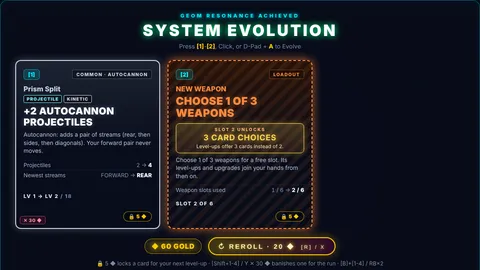
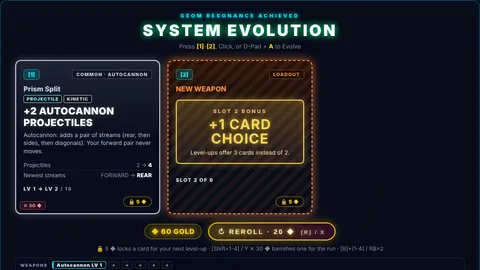
NEW WEAPON card: slot bonus front and centre, plus a one-time tip (#94)
- The NEW WEAPON card is now mostly its slot bonus: a big pulsing
  "SLOT N BONUS" block (+1 CARD CHOICE / +5% DAMAGE / FREE BREAKTHROUGH)
  with one short line. The summary, the "Weapon slots used" row and the
  "CHOOSE 1 OF 3 WEAPONS" headline are gone.
- The first NEW WEAPON card on a device opens a short tip over the hand
  (MORE WEAPONS, MORE POWER, every slot's bonus, GOT IT). It is stored in
  localStorage; while it is open, keys and pad buttons only close it.
- Capture and smoke tools mark the tip as seen, like the tutorial.

Claude-Session: https://claude.ai/code/session_01GbW1Djnz83nEUocq6RVCdz

diff --git a/css/style.css b/css/style.css
@@ -1792,6 +1792,55 @@ body.touch-mode .upgrade-slot-reward { margin: 0 0 8px; }
 body.touch-mode .upgrade-slot-reward .upg-slot-reward { min-width: 0; padding: 4px 8px; }
 body.touch-mode .upgrade-slot-reward .upg-slot-reward b { font-size: 13px; }
 
+/* On the NEW WEAPON card the slot bonus is the message: big, centred, gently pulsing. */
+.upgrade-option.new-weapon-card .upg-slot-reward {
+  margin: 14px 0 8px;
+  padding: 16px 10px 14px;
+  gap: 6px;
+  border-width: 2px;
+  animation: slot-reward-pulse 1.2s ease-in-out infinite alternate;
+}
+.upgrade-option.new-weapon-card .upg-slot-reward-label { font-size: 11px; letter-spacing: 3px; }
+.upgrade-option.new-weapon-card .upg-slot-reward b { font-size: 30px; line-height: 1.05; letter-spacing: 1.5px; }
+.upgrade-option.new-weapon-card .upg-slot-reward-text { font-size: 12.5px; }
+@keyframes slot-reward-pulse {
+  from { box-shadow: 0 0 10px rgba(255, 216, 77, 0.25), inset 0 0 10px rgba(255, 216, 77, 0.1); }
+  to { box-shadow: 0 0 26px rgba(255, 216, 77, 0.55), inset 0 0 16px rgba(255, 216, 77, 0.2); }
+}
+@media (prefers-reduced-motion: reduce) { .upgrade-option.new-weapon-card .upg-slot-reward { animation: none; } }
+
+/* One-time tip on slot bonuses, over the level-up hand the first time a NEW WEAPON card shows up. */
+.slot-tip {
+  position: absolute;
+  inset: 0;
+  z-index: 5;
+  display: flex;
+  align-items: center;
+  justify-content: center;
+  padding: 16px;
+  background: rgba(2, 4, 12, 0.78);
+  backdrop-filter: blur(3px);
+}
+.slot-tip-card {
+  width: min(520px, 100%);
+  padding: 22px 22px 18px;
+  border-radius: 14px;
+  border: 2px solid #ffd84d;
+  background: linear-gradient(180deg, rgba(44, 28, 8, 0.97), rgba(10, 12, 26, 0.98));
+  box-shadow: 0 0 40px rgba(255, 216, 77, 0.35);
+  text-align: center;
+}
+.slot-tip-kicker { font-size: 11px; font-weight: 800; letter-spacing: 3px; color: #ffb37a; }
+.slot-tip-title { margin: 6px 0 8px; font-size: 26px; letter-spacing: 2px; color: #ffd84d; text-shadow: 0 0 14px rgba(255, 216, 77, 0.6); }
+.slot-tip-line { margin: 0 0 14px; font-size: 14px; color: #ffe9b0; line-height: 1.4; }
+.slot-tip-rewards { display: flex; flex-direction: column; gap: 5px; max-width: 340px; margin: 0 auto 16px; }
+.slot-tip-reward { display: flex; align-items: center; justify-content: space-between; gap: 12px; padding: 6px 12px; border-radius: 8px; border: 1px solid rgba(255, 216, 77, 0.55); background: rgba(255, 216, 77, 0.08); }
+.slot-tip-reward span { font-size: 10.5px; font-weight: 800; letter-spacing: 1.5px; color: #ffb37a; }
+.slot-tip-reward b { font-size: 14px; color: #ffd84d; letter-spacing: 0.5px; }
+.slot-tip-reward.reward-breakthrough { border-color: #38f2d0; background: rgba(56, 242, 208, 0.08); }
+.slot-tip-reward.reward-breakthrough b { color: #7dffe6; }
+.slot-tip-ok { margin: 0 auto; min-width: 160px; }
+
 /* The NEW WEAPON pick (1 of 3 weapons): the whole window turns armory orange, and each card leads with
    the weapon's name in its tier colour instead of a white "+N" stat headline. */
 #upgrade-modal.phase-weapon .modal-card {
@@ -4150,9 +4199,13 @@ body.touch-mode .upgrade-option:not(.card-detail-card) .upg-headline { font-size
 body.touch-mode .upgrade-option:not(.card-detail-card) .upg-level { font-size: 10px; margin-top: 6px; padding-top: 5px; }
 body.touch-mode .upgrade-option:not(.card-detail-card) .upg-jump-ribbon { font-size: 9px; padding: 2px 8px; }
 /* The slot reward stays on compact cards (it is why to take NEW WEAPON), minus its long line. */
-body.touch-mode .upgrade-option:not(.card-detail-card) .upg-slot-reward { margin: 6px 0 2px; padding: 4px 6px; }
-body.touch-mode .upgrade-option:not(.card-detail-card) .upg-slot-reward b { font-size: 13px; }
-body.touch-mode .upgrade-option:not(.card-detail-card) .upg-slot-reward-text { display: none; }
+body.touch-mode .upgrade-option:not(.card-detail-card) .upg-slot-reward { margin: 6px 0 2px; padding: 8px 6px; gap: 3px; }
+body.touch-mode .upgrade-option:not(.card-detail-card) .upg-slot-reward b { font-size: 18px; }
+body.touch-mode .upgrade-option:not(.card-detail-card) .upg-slot-reward-label { font-size: 8.5px; letter-spacing: 1.5px; }
+body.touch-mode .upgrade-option:not(.card-detail-card) .upg-slot-reward-text { font-size: 10px; }
+body.touch-mode .slot-tip-card { padding: 16px 14px 14px; }
+body.touch-mode .slot-tip-title { font-size: 20px; }
+body.touch-mode .slot-tip-line { font-size: 12.5px; margin-bottom: 10px; }
 body.touch-mode .card-lock-toggle,
 body.touch-mode .card-banish-toggle { font-size: 10px; padding: 3px 8px; margin-top: 6px; }
 body.touch-mode .card-more-btn {

diff --git a/js/main.js b/js/main.js
@@ -35,9 +35,9 @@ import {
 } from './status-effects.js';
 import {
   describeUpgrade, describeNewWeapon, describeWeaponPick, describeBreakthrough, renderUpgradeCard, COMPACT_MAX_ROWS, bonusLevels, bonusText,
-  slotRewardHtml
+  slotRewardHtml, slotTipHtml
 } from './upgrade-cards.js';
-import { handSizeFor, slotReward } from './slot-rewards.js';
+import { handSizeFor, slotReward, slotTip, readSlotTipSeen, writeSlotTipSeen } from './slot-rewards.js';
 import { META_UPGRADES, ARMORY_CATEGORIES, ProgressionManager, formatArmoryValue } from './progression.js';
 import { GOLD_ICON, goldPerVein, goldCoins, rerollCost, weaponRerollCost, lockCost, banishCost, trySpend, refreshLockedCard, rollHandAround } from './gold.js';
 import { GlobalLeaderboard, buildBoardView, renderBoardView, renderVersionOptions, renderModeOptions, syncTabButtons, describeSubmit, normalizeTab } from './leaderboard.js';
@@ -3855,6 +3855,36 @@ export class Game {
   renderHand() {
     this.renderChoiceCards(this.currentChoices.map((upg) => (upg.isNewWeapon ? describeNewWeapon(this.player) : describeUpgrade(this.player, upg))));
     this.renderHandControls();
+    if (this.currentChoices.some((c) => c.isNewWeapon)) this.maybeOpenSlotTip();
+  }
+
+  // The first NEW WEAPON card on a device opens a short tip on slot bonuses over the hand (once: the flag
+  // is stored, js/slot-rewards.js). While it is open, keys and pad buttons only close it.
+  maybeOpenSlotTip() {
+    this.slotTipSeen ??= readSlotTipSeen();
+    if (this.slotTipSeen || this.slotTipOpen) return;
+    const doc = globalThis.document;
+    const modal = doc?.getElementById?.('upgrade-modal');
+    if (!modal || !doc.createElement) return;
+    this.slotTipSeen = true;
+    writeSlotTipSeen();
+    this.slotTipOpen = true;
+    const wrap = doc.createElement('div');
+    wrap.id = 'slot-tip';
+    wrap.className = 'slot-tip';
+    wrap.innerHTML = slotTipHtml(slotTip(weaponSlots()));
+    wrap.querySelector?.('[data-slot-tip-ok]')?.addEventListener('click', () => this.closeSlotTip());
+    modal.appendChild(wrap);
+    this.menuGrace = Math.max(this.menuGrace || 0, CHOICE_CLICK_GUARD_MS / 1000);
+  }
+
+  closeSlotTip() {
+    if (!this.slotTipOpen) return;
+    this.slotTipOpen = false;
+    globalThis.document?.getElementById?.('slot-tip')?.remove?.();
+    // A held key or button that closed the tip must not also pick the card under the cursor.
+    this.menuGrace = Math.max(this.menuGrace || 0, CHOICE_CLICK_GUARD_MS / 1000);
+    this.sound?.playUiSelect?.();
   }
 
   addGold(amount) {
@@ -3894,6 +3924,10 @@ export class Game {
   // radar toggle only during play), [B] then [1]-[4] banishes that card ([B] again or [Esc] cancels).
   handleUpgradeKey(code, shift = false) {
     if (this.state !== 'UPGRADE') return false;
+    if (this.slotTipOpen) {
+      if (/^(?:Enter|Space|Escape|(?:Digit|Numpad)\d)$/.test(code)) this.closeSlotTip();
+      return true;
+    }
     const digit = /^(?:Digit|Numpad)([1-4])$/.exec(code);
     if (digit) {
       const idx = Number(digit[1]) - 1;
@@ -3922,6 +3956,10 @@ export class Game {
   // the focused card. Neither button does anything else in this modal.
   handleUpgradePad(gp) {
     if (this.state !== 'UPGRADE' || !gp) return false;
+    if (this.slotTipOpen) {
+      if ([PAD.A, PAD.B, PAD.X, PAD.Y, PAD.START].some((b) => gp.pressed(b))) this.closeSlotTip();
+      return true; // nothing under the tip can be picked while it is open
+    }
     if (gp.pressed(PAD.X)) return this.rerollHand();
     if (gp.pressed(PAD.Y)) {
       const idx = (this.choiceCardEls || []).indexOf(this.menuNav?.focused);
@@ -4311,6 +4349,7 @@ export class Game {
     this.handPhase = null;
     this.handLock = null;
     this.closeCardDetail();
+    this.closeSlotTip();
     document.getElementById('upgrade-modal').classList.add('hidden');
     document.getElementById('upgrade-modal').classList.remove?.('phase-weapon');
     this.state = 'PLAYING';
@@ -4320,7 +4359,7 @@ export class Game {
   }
 
   selectUpgrade(index) {
-    if (this.state !== 'UPGRADE') return;
+    if (this.state !== 'UPGRADE' || this.slotTipOpen) return;
     const upg = this.currentChoices[index];
     if (!upg) return;
     const p = this.player;

diff --git a/tests/slot-rewards.test.js b/tests/slot-rewards.test.js
@@ -12,7 +12,7 @@ const { acquireWeapon, discardWeapon, pendingBreakthroughs, applyUpgradeLevels, 
 const { ownedWeapons, unownedWeapons, weaponLevel } = await import('../js/loadout.js');
 const { weaponDamage } = await import('../js/weapon-scaling.js');
 const { describeNewWeapon, renderUpgradeCard } = await import('../js/upgrade-cards.js');
-const { handSizeFor, loadoutDamageMult, loadoutDamageMultFor, slotReward } = await import('../js/slot-rewards.js');
+const { handSizeFor, loadoutDamageMult, loadoutDamageMultFor, slotReward, slotTip, SLOT_TIP_SEEN_KEY, readSlotTipSeen } = await import('../js/slot-rewards.js');
 const { weaponRerollCost } = await import('../js/gold.js');
 
 const odds = (chance, pity = 99) => ({
@@ -111,22 +111,68 @@ test('slot 6: that weapon starts with its LV 6 Breakthrough, once per run, in pl
   assert.deepEqual(pendingBreakthroughs(p, next), []);
 });
 
-test('NEW WEAPON card: a banner says what the slot unlocks', () => {
+test('NEW WEAPON card: the slot bonus is the message, with no summary or stat rows', () => {
   const g = freshGame();
   const p = g.player;
-  const expect = { 2: '3 CARD CHOICES', 3: '+5% DAMAGE', 4: '4 CARD CHOICES', 5: '+5% DAMAGE', 6: 'FREE BREAKTHROUGH' };
+  const expect = { 2: '+1 CARD CHOICE', 3: '+5% DAMAGE', 4: '+1 CARD CHOICE', 5: '+5% DAMAGE', 6: 'FREE BREAKTHROUGH' };
   for (const [slot, short] of Object.entries(expect)) {
     const d = describeNewWeapon(p);
     assert.equal(d.reward.slot, Number(slot));
     assert.equal(d.reward.short, short);
+    assert.deepEqual(d.rows, []);
     const html = renderUpgradeCard(d, '[1]').html;
-    assert.match(html, new RegExp(`SLOT ${slot} UNLOCKS`));
+    assert.match(html, new RegExp(`SLOT ${slot} BONUS`));
     assert.ok(html.includes(short));
+    assert.ok(!html.includes('upg-summary') && !html.includes('upg-stats') && !html.includes('upg-headline'), 'no extra text');
     acquireWeapon(p, unownedWeapons(p)[0]);
   }
+  assert.match(slotReward(2).text, /3 cards instead of 2/);
   assert.match(slotReward(5).text, /\+10% total/);
   assert.equal(slotReward(1), null);
   assert.equal(slotReward(7), null);
+});
+
+test('slot tip: opens once over the first hand with a NEW WEAPON card, and only GOT IT / a key / a button closes it', () => {
+  const tip = slotTip(6);
+  assert.deepEqual(tip.rewards.map((r) => r.slot), [2, 3, 4, 5, 6]);
+  const store = new Map();
+  const saved = globalThis.localStorage;
+  globalThis.localStorage = { getItem: (k) => store.get(k) ?? null, setItem: (k, v) => store.set(k, v) };
+  try {
+    const g = freshGame();
+    g.slotTipSeen = undefined; // a device that has never seen it
+    withTuning(odds(0), () => g.triggerLevelUp());
+    assert.ok(!g.slotTipOpen, 'no NEW WEAPON card: no tip');
+    g.selectUpgrade(0);
+    withTuning(odds(1), () => g.triggerLevelUp());
+    assert.equal(g.slotTipOpen, true);
+    assert.equal(store.get(SLOT_TIP_SEEN_KEY), '1');
+    assert.ok(readSlotTipSeen());
+    // Picks, digits and pad buttons don't go through to the cards while it is open.
+    const choices = g.currentChoices;
+    g.selectUpgrade(0);
+    assert.equal(g.currentChoices, choices);
+    assert.equal(g.handleUpgradeKey('Digit1'), true);
+    assert.equal(g.slotTipOpen, false, 'a digit closes it');
+    assert.equal(g.state, 'UPGRADE', '...without picking a card');
+    // Never again, on this game or a new one on the same device.
+    g.slotTipSeen = true;
+    const g2 = freshGame();
+    g2.slotTipSeen = undefined;
+    withTuning(odds(1), () => g2.triggerLevelUp());
+    assert.ok(!g2.slotTipOpen);
+    // Controller: A closes it without picking.
+    store.clear();
+    const g3 = freshGame();
+    g3.slotTipSeen = undefined;
+    withTuning(odds(1), () => g3.triggerLevelUp());
+    assert.equal(g3.slotTipOpen, true);
+    assert.equal(g3.handleUpgradePad({ pressed: (b) => b === PAD.A, buttons: [] }), true);
+    assert.equal(g3.slotTipOpen, false);
+    assert.equal(g3.state, 'UPGRADE');
+  } finally {
+    globalThis.localStorage = saved;
+  }
 });
 
 test('weapon pick reroll: 40 then 80 gold, fresh weapons first, off when nothing new is left', () => {

diff --git a/js/upgrade-cards.js b/js/upgrade-cards.js
@@ -318,26 +318,36 @@ export function describeNewWeapon(player) {
     name: 'NEW WEAPON',
     category: 'LOADOUT',
     tags: [],
-    summary: 'Choose 1 of 3 weapons for a free slot. Its level-ups and upgrades join your hands from then on.',
+    // The slot's bonus is the whole message: no headline, summary or stat rows next to it.
+    summary: reward ? '' : 'Choose 1 of 3 weapons for a free slot.',
     isSynergy: false,
     isNewWeapon: true,
     rarity: 'weapon',
     rarityLabel: 'LOADOUT',
     color: RARITY.weapon.color,
     jump: 1,
-    headline: 'CHOOSE 1 OF 3 WEAPONS',
-    rows: [{ id: 'slots', label: 'Weapon slots used', before: `${used} / ${slots}`, after: `${used + 1} / ${slots}` }],
+    headline: reward ? '' : 'CHOOSE 1 OF 3 WEAPONS',
+    rows: [],
     hiddenRows: 0,
     levelHtml: `SLOT ${used + 1} OF ${slots}`,
-    // What filling this slot unlocks (slot-rewards.js), shown as a banner on the card.
+    // What filling this slot unlocks (slot-rewards.js), shown big on the card.
     reward: reward && { ...reward, slot: used + 1 }
   };
 }
 
 // Banner for a slot reward ({ slot, short, text, kind }): the NEW WEAPON card and the weapon pick header.
 export const slotRewardHtml = (r) => (r
-  ? `<div class="upg-slot-reward reward-${r.kind}"><span class="upg-slot-reward-label">SLOT ${r.slot} UNLOCKS</span><b>${r.short}</b><span class="upg-slot-reward-text">${r.text}</span></div>`
+  ? `<div class="upg-slot-reward reward-${r.kind}"><span class="upg-slot-reward-label">SLOT ${r.slot} BONUS</span><b>${r.short}</b><span class="upg-slot-reward-text">${r.text}</span></div>`
   : '');
+
+// The one-time slot rewards tip (slot-rewards.js slotTip): title, one line, a chip per slot bonus, GOT IT.
+export const slotTipHtml = (tip) => `<div class="slot-tip-card" role="dialog" aria-labelledby="slot-tip-title">
+    <div class="slot-tip-kicker">⬡ NEW: SLOT BONUSES</div>
+    <h3 id="slot-tip-title" class="slot-tip-title">${tip.title}</h3>
+    <p class="slot-tip-line">${tip.line}</p>
+    <div class="slot-tip-rewards">${tip.rewards.map((r) => `<div class="slot-tip-reward reward-${r.kind}"><span>WEAPON ${r.slot}</span><b>${r.short}</b></div>`).join('')}</div>
+    <button type="button" class="neon-btn primary-btn slot-tip-ok" data-slot-tip-ok>GOT IT</button>
+  </div>`;
 
 // A weapon offered after NEW WEAPON: its summary, tags and exact LV 1 stats (installed on a copy).
 export function describeWeaponPick(player, weaponId, maxRows = MAX_ROWS) {
@@ -462,10 +472,10 @@ export function renderUpgradeCard(d, keyLabel, installed = false) {
           <span class="upg-badge">${d.rarityLabel === d.category ? d.category : `${d.rarityLabel} · ${d.category}`}</span>
         </div>
         <div class="upg-name">${d.name}</div>${tags}
-        <div class="upg-headline">${d.headline}</div>${slotRewardHtml(d.reward)}
-        <div class="upg-summary">${d.summary}</div>
-        <div class="upg-stats">${rows}${more}
-        </div>
+        ${d.headline ? `<div class="upg-headline">${d.headline}</div>` : ''}${slotRewardHtml(d.reward)}
+        ${d.summary ? `<div class="upg-summary">${d.summary}</div>` : ''}
+        ${rows || more ? `<div class="upg-stats">${rows}${more}
+        </div>` : ''}
       </div>
       <div class="upg-level">${levelText(d, installed)}</div>
     `

diff --git a/js/slot-rewards.js b/js/slot-rewards.js
@@ -27,20 +27,42 @@ export const loadoutDamageMult = (p) => loadoutDamageMultFor(Array.isArray(p?.lo
 
 const pct = (x) => `+${Math.round(x * 100)}%`;
 
-// What equipping weapon number `slot` unlocks, or null for slots with no reward. `short` fits the
-// NEW WEAPON card's banner; `text` is the longer line under it and on the weapon pick screen.
+// What equipping weapon number `slot` unlocks, or null for slots with no reward. `short` is the big line
+// on the NEW WEAPON card; `text` the one short line under it (and on the weapon pick screen).
 export function slotReward(slot) {
   const hand = handSizeFor(slot);
   if (slot > 1 && hand > handSizeFor(slot - 1)) {
-    return { kind: 'hand', short: `${hand} CARD CHOICES`, text: `Level-ups offer ${hand} cards instead of ${handSizeFor(slot - 1)}.` };
+    const more = hand - handSizeFor(slot - 1);
+    return { kind: 'hand', short: `+${more} CARD CHOICE${more > 1 ? 'S' : ''}`, text: `Level-ups offer ${hand} cards instead of ${handSizeFor(slot - 1)}.` };
   }
   const k = DAMAGE_SLOTS.indexOf(slot);
   if (k >= 0) {
     const each = slotDamageBonus();
-    return { kind: 'damage', short: `${pct(each)} DAMAGE`, text: `Every weapon deals ${pct(each)} damage${k > 0 ? ` (${pct(each * (k + 1))} total)` : ''}.` };
+    return { kind: 'damage', short: `${pct(each)} DAMAGE`, text: `To every weapon${k > 0 ? ` (${pct(each * (k + 1))} total)` : ''}.` };
   }
   if (slot === BREAKTHROUGH_SLOT) {
-    return { kind: 'breakthrough', short: 'FREE BREAKTHROUGH', text: 'This weapon starts with its LV 6 Breakthrough.' };
+    return { kind: 'breakthrough', short: 'FREE BREAKTHROUGH', text: 'The new weapon starts with its LV 6 Breakthrough.' };
   }
   return null;
+}
+
+// The one-time tip shown the first time a NEW WEAPON card turns up (main.js openSlotTip): one line and
+// the bonus of every slot that has one.
+export const SLOT_TIP_SEEN_KEY = 'vexolith_slot_tip_seen';
+export function slotTip(slots = 6) {
+  const rewards = [];
+  for (let s = 2; s <= slots; s++) {
+    const r = slotReward(s);
+    if (r) rewards.push({ slot: s, ...r });
+  }
+  return { title: 'MORE WEAPONS, MORE POWER', line: 'Every NEW WEAPON you take unlocks a bonus. The card shows the next one.', rewards };
+}
+
+// Storage may be blocked (reading localStorage itself can throw): the tip then shows once per page load.
+export function readSlotTipSeen(storage) {
+  try { return !!(storage ?? globalThis.localStorage)?.getItem(SLOT_TIP_SEEN_KEY); } catch { return false; }
+}
+
+export function writeSlotTipSeen(storage) {
+  try { (storage ?? globalThis.localStorage)?.setItem(SLOT_TIP_SEEN_KEY, '1'); } catch { /* blocked */ }
 }

diff --git a/tests/loadout.test.js b/tests/loadout.test.js
@@ -211,8 +211,7 @@ test('weapon pick cards preview exact LV 1 stats, tags and summary without touch
     assert.match(html.html, /EQUIP/);
   }
   const nw = describeNewWeapon(freshGame().player);
-  assert.equal(nw.rows[0].before, '1 / 6');
-  assert.equal(nw.rows[0].after, '2 / 6');
+  assert.match(nw.levelHtml, /SLOT 2 OF 6/, 'the slot it fills (the slot bonus is the rest of the card)');
   assert.match(renderUpgradeCard(nw, '[2]').className, /new-weapon-card/);
   assert.equal(rollWeaponPicks(freshGame().player, 3).length, 3);
 });

diff --git a/README.md b/README.md
@@ -67,7 +67,7 @@ Versions 0.1.0–0.8.1 were assigned after the fact from the merge history: 0.1.
    - **Plasma Grenades** (`js/grenades.js`, numbers in `js/weapon-scaling.js`): an AUTONOMOUS slot weapon (damage source `grenade`, tags `PROJECTILE EXPLOSIVE AREA`). Every throw interval (2.2 s at LV 1) the ship lobs 2 grenades at the nearest enemies within throw range (330 px), leading their motion, or in a fan along the aim when none is in range. Each one arcs for 0.5 s with a small bounce, sits armed for a 0.75 s fuse (blinking light, a ring at the blast radius filling as the fuse burns), then bursts (95 px). Stat cards: Damage, Bandolier (+1 grenade per throw, up to +5), Throw Rate (+40%/rank, up to 8), Blast Size and Throw Range (utility). The grenade's **element** is the one its element card locked in (FIRE, FROST, CORROSIVE or SHOCK; none → PLASMA) and sets its hue; every grenade hit (blast, bomblets, cloud) applies that element's status (`applyOnHitStatuses`). Breakthroughs: **Cluster Grenades** (LV 6: 5 bomblets at 10% scatter on landing and pop 0.45 s later), **Lingering Cloud** (LV 12: a cloud worth 30% of the blast ticks for 2.5 s in the grenade's element, drawn per element: flames, frost hexagon, toxic bubbles, crackling arcs or a plasma haze), **Gravity Grenade** (LV 18: a 1.1 s fuse that drags enemies within 1.8× the blast radius toward the grenade, then a ×1.22 harder blast). **SYNERGY: EMP Grenades** (Plasma Grenades + Tesla Arc): every grenade blast arcs lightning into the 3 nearest enemies for 35% of the blast each (run-stats sub-source `emp`). Grenades live in a fixed 64-slot pool and freeze with pause/hit-stop/slow-mo.
    - **Corrosive Gas Trail** (`js/gas-trail.js`, numbers in `js/weapon-scaling.js`, v0.36): an AUTONOMOUS slot weapon (damage source `gas`, tags `AREA CORRODE`). The ship vents puffs of gas from its tail: a new puff every 0.7 cloud radii of travel, while a hovering ship keeps topping up its last puff (one cloud when parked). Clouds (46 px at LV 1, AREA-scaled) swell in over 0.35 s, linger 2.6 s and shrink away over the last 30%. Every gas tick (0.3 s at LV 1) each enemy inside **any** cloud takes one tick (overlaps never stack) and a CORRODE stack. Its element is **fixed** (`FIXED_ELEMENTS` in `js/weapon-levels.js`): no element cards, corrode rank 1 at LV 1 and +1 at LV 6 / 12 / 18 (`fixedElementRank`); it counts as a CORROSIVE weapon for the STATUS cards, the Corrosive Amplifier, Supercritical and the HUD element tag. A tick is valued at `gasHitShare` (3) in its potential, since a trail usually holds several enemies. Stat cards: Toxicity (damage), Reactivity (+40% tick rate/rank, up to 8), Plume Size and Linger (utility). Breakthroughs: **Seeking Miasma** (LV 6: clouds creep toward the nearest enemy within 280 px at 70 px/s; ticks ×1.22), **Volatile Pockets** (LV 12: every 1.2 s a pocket at the tail swells, arms after 0.35 s and bursts when an enemy comes within 60% of its 1.9× cloud-radius blast, or at 1.8 s, spilling a fresh cloud; run-stats sub-source `gas_pocket`), **Toxic Shroud** (LV 18: a cloud of 2× the cloud radius wraps the hull, follows the ship and ticks with the trail for 50% of a tick; `gas_shroud`). Puffs (96) and pockets (8) live in fixed pools; the clouds draw as two union fills plus two batched strokes under the enemies, so a long trail never hides them or costs more draw calls.
    - **NEW WEAPON** card (cyan, dashed): while a slot is free it joins a hand with a chance that depends on how many weapons you carry (`newWeaponChanceBy1`…`By5`: 80 / 70 / 60 / 40 / 30% with 1–5 weapons) and is guaranteed once `newWeaponPityOne` (2) hands in a row went without one while you carry a single weapon, or `newWeaponPity` (4) with two or more. Picking it swaps the hand for **1 of 3 unequipped weapons**, each with its summary, tags and exact LV 1 stats (gold can reroll them). With all 6 slots full no NEW WEAPON cards appear. Supply caches never offer it.
-   - **Slot rewards** (`js/slot-rewards.js`), so riding one weapon to a high level is not the strong play: level-up hands hold **2 cards with 1 weapon, 3 with 2–3, 4 from 4** (a NEW WEAPON card takes one of them); the **3rd and 5th** weapons each add `slotDamageBonus` (+5%) damage to every weapon (`baseDamage` in `js/weapon-scaling.js`); the weapon that fills **slot 6** gets its LV 6 Breakthrough at once (its R&D pick opens right after the weapon pick and counts as its LV 6 one; once per run). Hand size and damage follow the weapons equipped now, so a discard takes them back. The NEW WEAPON card carries a banner with what the next slot unlocks, and the weapon pick repeats it under its title.
+   - **Slot rewards** (`js/slot-rewards.js`), so riding one weapon to a high level is not the strong play: level-up hands hold **2 cards with 1 weapon, 3 with 2–3, 4 from 4** (a NEW WEAPON card takes one of them); the **3rd and 5th** weapons each add `slotDamageBonus` (+5%) damage to every weapon (`baseDamage` in `js/weapon-scaling.js`); the weapon that fills **slot 6** gets its LV 6 Breakthrough at once (its R&D pick opens right after the weapon pick and counts as its LV 6 one; once per run). Hand size and damage follow the weapons equipped now, so a discard takes them back. The NEW WEAPON card is mostly that bonus (big `SLOT N BONUS` block, no summary or stat rows), and the weapon pick repeats it under its title. The first NEW WEAPON card on a device opens a one-time tip over the hand (*MORE WEAPONS, MORE POWER*, every slot bonus, GOT IT; stored as `vexolith_slot_tip_seen`); while it is open, keys and pad buttons only close it.
    - **Loadout panel** in the pause menu: 6 slots with name, level, tags and the weapon's own upgrades. **DISCARD** asks to confirm in place (CONFIRM / KEEP), then removes the weapon, its level, its weapon-specific upgrades (its element included, unless another equipped weapon shares a line) and any evolution that no longer qualifies; general and tag upgrades stay. The freed slot brings NEW WEAPON cards back. The player is rebuilt from a run-start snapshot plus the remaining upgrade levels, so a discard removes exactly what those upgrades added. Mouse, keyboard and controller all work. The HUD shows one chip per slot (free slots dashed) above the other upgrades.
    - **Leveling**: XP to next level is a stepped line, `xpCurveBase` 25 + `xpCurveStep` 16 per level to LV 20, then `xpCurveStepMid` 100 per level to LV 40, then `xpCurveStepLate` 60 (all in the tuner's *Leveling & Weapon Loadout* group). It replaced ×1.32 + 6 per level. In the simulator level-ups come every ~10–15 s for the first 5 minutes (LV ~15 at 3 min, ~25 at 5 min) and every ~30–60 s after; a pilot who keeps killing is around LV 32–44 at 12 min and LV 40–50 at 20 min. **OVERCHARGE** (`overchargeReady` / `canOvercharge` in `js/upgrades.js`): once every equipped weapon is LV 18, cards that don't raise a weapon's level (general, tag and STATUS cards) are offered past their max and keep stacking (cards show `⚡ OVERCHARGE`); evolutions, element cards and the Volatile Shatter passive keep their max, and crit chance stops at 100%. Overcharged levels survive a discard. If even those run out, a level-up still falls back to a full shield repair.
 
